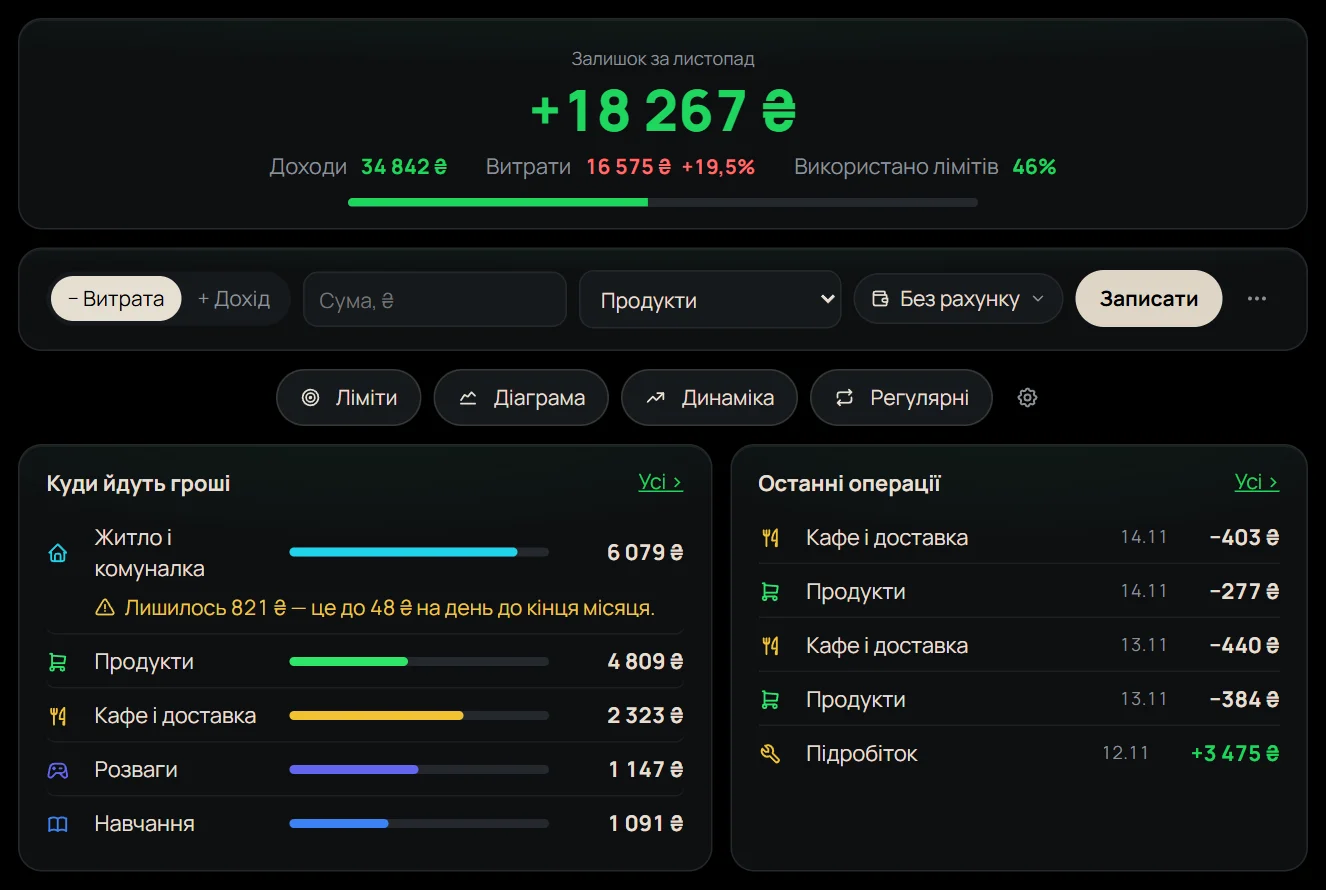
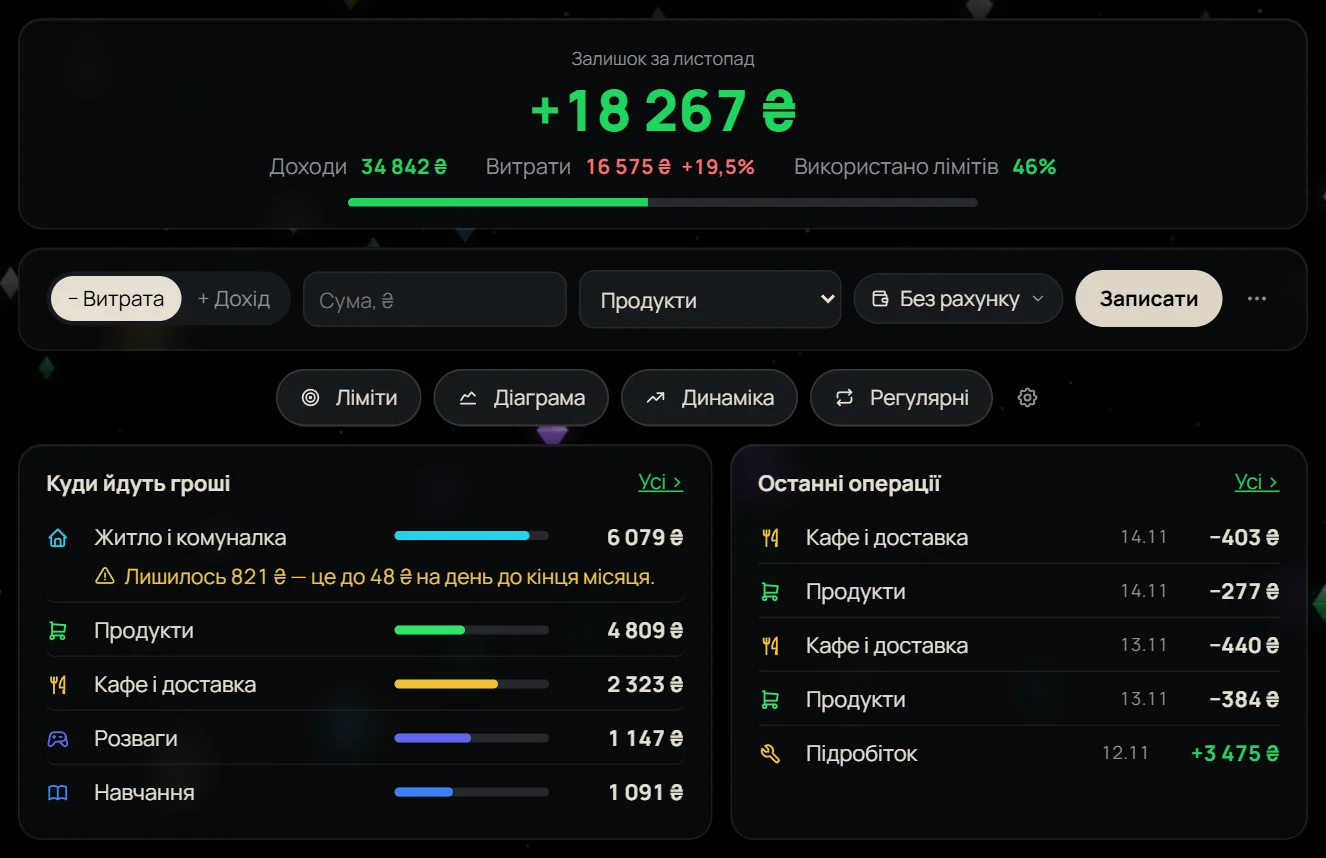
Shots on glass cards over the live Level Up background; LVL 2 adds a Sport week shot; LVL 3 shows Capital instead of trading; hero picture removed; one-line category names in LVL 3

diff --git a/uk/index.html b/uk/index.html
@@ -200,7 +200,6 @@ footer .wrap{display:flex;justify-content:space-between;gap:20px;flex-wrap:wrap}
       <div><a class="btn" href="https://t.me/levelup_otzyvy_bot" target="_blank" rel="noopener"><svg viewBox="0 0 24 24" fill="currentColor"><path d="M21.5 4.2 2.9 11.4c-1.2.5-1.2 1.2 0 1.5l4.7 1.5 1.8 5.6c.2.6.4.8.9.8s.7-.2 1-.5l2.3-2.2 4.8 3.5c.9.5 1.5.2 1.7-.8l3.1-14.6c.3-1.3-.5-1.9-1.7-1.4zM9.9 14.5l-.4 4.3-1.4-4.6L18 8.2z"/></svg><span data-i="abTg">Написати в Telegram</span></a></div>
     </div>
   </div>
-  <img class="shot zoom" data-f="home" src="/img/uk/home.webp" width="1440" height="900" alt="">
 </div>
 
 <!-- п'ять «рівнів» програми: картка-квест + знімок у зеленій рамці, сторони чергуються -->
@@ -219,15 +218,15 @@ footer .wrap{display:flex;justify-content:space-between;gap:20px;flex-wrap:wrap}
     <h2 data-i="l2H">Звички й здоровʼя на одному екрані</h2><p class="sub" data-i="l2P">Сон, вода, кава, настрій і вітаміни — у кілька кліків. Програма сама помічає звʼязки: наприклад, скільки сну забирає зайва чашка кави.</p>
     <ul class="lvb"><li data-i="l2a">Готові звички або свої</li><li data-i="l2b">Нагадування в потрібний час</li><li data-i="l2c">Тренування, кроки й кілометри — у вкладці «Спорт»</li></ul>
   </div>
-  <div class="lvm"><img class="frame zoom" data-f="lvl2" width="1326" height="1184" alt="" loading="lazy"></div>
+  <div class="lvm"><img class="frame zoom" data-f="lvl2" width="1326" height="1184" alt="" loading="lazy"><img class="frame zoom" data-f="lvl2b" width="1326" height="658" alt="" loading="lazy"></div>
 </div></section>
 <section class="lvl" id="lvl3"><div class="wrap lvw">
   <div class="lvt">
     <div class="qc" style="--p:60%"><span class="qn"><b>LVL 3</b> · <span data-i="l3K">ГРОШІ</span></span><span class="qx">XP 3/5</span><i></i></div>
-    <h2 data-i="l3H">Гроші під контролем</h2><p class="sub" data-i="l3P">Доходи й витрати за категоріями, ліміти на місяць, капітал і курси валют. Для трейдерів — журнал угод: просадка, дисципліна і які емоції коштують тобі грошей.</p>
-    <ul class="lvb"><li data-i="l3a">Ліміти з підказкою, скільки можна витратити за день</li><li data-i="l3b">Регулярні платежі й рахунки</li><li data-i="l3c">Журнал угод із розбором місяця</li></ul>
+    <h2 data-i="l3H">Гроші під контролем</h2><p class="sub" data-i="l3P">Доходи й витрати за категоріями, ліміти на місяць і курси валют. А у вкладці «Капітал» видно, скільки в тебе всього грошей і як вони ростуть з місяця в місяць.</p>
+    <ul class="lvb"><li data-i="l3a">Ліміти з підказкою, скільки можна витратити за день</li><li data-i="l3b">Регулярні платежі й рахунки</li><li data-i="l3c">Капітал і його ріст по місяцях</li></ul>
   </div>
-  <div class="lvm"><img class="frame zoom" data-f="lvl3" width="1326" height="920" alt="" loading="lazy"><img class="frame zoom" data-f="lvl3b" width="1326" height="676" alt="" loading="lazy"></div>
+  <div class="lvm"><img class="frame zoom" data-f="lvl3" width="1326" height="889" alt="" loading="lazy"><img class="frame zoom" data-f="lvl3b" width="1326" height="793" alt="" loading="lazy"></div>
 </div></section>
 <section class="lvl wide" id="lvl4"><div class="wrap lvw">
   <div class="lvt">
@@ -235,7 +234,7 @@ footer .wrap{display:flex;justify-content:space-between;gap:20px;flex-wrap:wrap}
     <h2 data-i="l4H">Пиши як другові — програма розкладе сама</h2><p class="sub" data-i="l4P">Одна фраза — і витрата, тренування, заняття та звичка вже на своїх місцях. Працює й без ключа ШІ.</p>
     <ul class="lvb"><li data-i="l4a">Кілька справ в одній фразі</li><li data-i="l4b">Розуміє «вчора» і різні валюти</li><li data-i="l4c">З ключем ШІ — фото чека й підсумки місяця</li></ul>
   </div>
-  <div class="lvm"><img class="frame zoom" data-f="lvl4" width="1686" height="524" alt="" loading="lazy"></div>
+  <div class="lvm"><img class="frame zoom" data-f="lvl4" width="1686" height="527" alt="" loading="lazy"></div>
 </div></section>
 <section class="lvl" id="lvl5"><div class="wrap lvw">
   <div class="lvt">
@@ -343,8 +342,8 @@ uk: {nFeat:'Можливості', nInst:'Як встановити', nPrice:'Ц
  l1K:'ГРА', l1H:'Кожна галочка — це досвід', l1P:'Відмітив звичку — отримав XP і бачиш, як він летить до шкали рівня. Закрив день — салют і хвиля світла на живому фоні.', l1a:'Рівні, звання й 30+ досягнень',
  l1b:'Серії днів без пропусків', l1c:'Нагороди: нові теми й живі фони', l2K:'ЗВИЧКИ Й ЗДОРОВʼЯ', l2H:'Звички й здоровʼя на одному екрані',
  l2P:'Сон, вода, кава, настрій і вітаміни — у кілька кліків. Програма сама помічає звʼязки: наприклад, скільки сну забирає зайва чашка кави.', l2a:'Готові звички або свої', l2b:'Нагадування в потрібний час', l2c:'Тренування, кроки й кілометри — у вкладці «Спорт»',
- l3K:'ГРОШІ', l3H:'Гроші під контролем', l3P:'Доходи й витрати за категоріями, ліміти на місяць, капітал і курси валют. Для трейдерів — журнал угод: просадка, дисципліна і які емоції коштують тобі грошей.', l3a:'Ліміти з підказкою, скільки можна витратити за день',
- l3b:'Регулярні платежі й рахунки', l3c:'Журнал угод із розбором місяця', l4K:'ШІ', l4H:'Пиши як другові — програма розкладе сама',
+ l3K:'ГРОШІ', l3H:'Гроші під контролем', l3P:'Доходи й витрати за категоріями, ліміти на місяць і курси валют. А у вкладці «Капітал» видно, скільки в тебе всього грошей і як вони ростуть з місяця в місяць.', l3a:'Ліміти з підказкою, скільки можна витратити за день',
+ l3b:'Регулярні платежі й рахунки', l3c:'Капітал і його ріст по місяцях', l4K:'ШІ', l4H:'Пиши як другові — програма розкладе сама',
  l4P:'Одна фраза — і витрата, тренування, заняття та звичка вже на своїх місцях. Працює й без ключа ШІ.', l4a:'Кілька справ в одній фразі', l4b:'Розуміє «вчора» і різні валюти', l4c:'З ключем ШІ — фото чека й підсумки місяця',
  l5K:'ПІД СЕБЕ', l5H:'Програма під тебе', l5P:'Теми, живі фони, форма карток і кнопок, шрифти й розмір тексту. Зайві вкладки можна сховати, віджети головної — переставити.', l5a:'Нові теми відкриваються з рівнем',
  l5b:'Скляні картки й живі фони', l5c:'Власні кольори теми', thNight:'Зоряна ніч', thNebula:'Зоряний аметист',
@@ -382,8 +381,8 @@ ru: {nFeat:'Возможности', nInst:'Как установить', nPrice
  l1K:'ИГРА', l1H:'Каждая галочка — это опыт', l1P:'Отметил привычку — получил XP и видишь, как он летит к шкале уровня. Закрыл день — салют и волна света на живом фоне.', l1a:'Уровни, звания и 30+ достижений',
  l1b:'Серии дней без пропусков', l1c:'Награды: новые темы и живые фоны', l2K:'ПРИВЫЧКИ И ЗДОРОВЬЕ', l2H:'Привычки и здоровье на одном экране',
  l2P:'Сон, вода, кофе, настроение и витамины — в пару кликов. Программа сама замечает связи: например, сколько сна отнимает лишняя чашка кофе.', l2a:'Готовые привычки или свои', l2b:'Напоминания в нужное время', l2c:'Тренировки, шаги и километры — во вкладке «Спорт»',
- l3K:'ДЕНЬГИ', l3H:'Деньги под контролем', l3P:'Доходы и расходы по категориям, лимиты на месяц, капитал и курсы валют. Для трейдеров — журнал сделок: просадка, дисциплина и какие эмоции стоят тебе денег.', l3a:'Лимиты с подсказкой, сколько можно тратить в день',
- l3b:'Регулярные платежи и счета', l3c:'Журнал сделок с разбором месяца', l4K:'ИИ', l4H:'Пиши как другу — программа разложит сама',
+ l3K:'ДЕНЬГИ', l3H:'Деньги под контролем', l3P:'Доходы и расходы по категориям, лимиты на месяц и курсы валют. А во вкладке «Капитал» видно, сколько у тебя всего денег и как они растут от месяца к месяцу.', l3a:'Лимиты с подсказкой, сколько можно тратить в день',
+ l3b:'Регулярные платежи и счета', l3c:'Капитал и его рост по месяцам', l4K:'ИИ', l4H:'Пиши как другу — программа разложит сама',
  l4P:'Одна фраза — и трата, тренировка, занятие и привычка уже на своих местах. Работает и без ключа ИИ.', l4a:'Несколько дел в одной фразе', l4b:'Понимает «вчера» и разные валюты', l4c:'С ключом ИИ — фото чека и итоги месяца',
  l5K:'ПОД СЕБЯ', l5H:'Программа под тебя', l5P:'Темы, живые фоны, форма карточек и кнопок, шрифты и размер текста. Лишние вкладки можно спрятать, виджеты главной — переставить.', l5a:'Новые темы открываются с уровнем',
  l5b:'Стеклянные карточки и живые фоны', l5c:'Свои цвета темы', thNight:'Звёздная ночь', thNebula:'Звёздный аметист',
@@ -421,8 +420,8 @@ en: {nFeat:'Features', nInst:'Install', nPrice:'Pricing', nFaq:'FAQ', dlShort:'D
  l1K:'GAME', l1H:'Every check-off is XP', l1P:'Tick a habit — earn XP and watch it fly to your level bar. Close the day — confetti and a wave of light on the live background.', l1a:'Levels, titles and 30+ achievements',
  l1b:'Streaks of days without a miss', l1c:'Rewards: new themes and live backgrounds', l2K:'HABITS & HEALTH', l2H:'Habits and health on one screen',
  l2P:'Sleep, water, coffee, mood and vitamins in a couple of clicks. The app spots patterns itself — like how much sleep an extra cup of coffee costs you.', l2a:'Ready-made habits or your own', l2b:'Reminders at the right time', l2c:'Workouts, steps and kilometres in the Sport tab',
- l3K:'MONEY', l3H:'Money under control', l3P:'Income and spending by category, monthly limits, net worth and exchange rates. For traders — a trade journal: drawdown, discipline and which emotions cost you money.', l3a:'Limits that tell you how much you can spend per day',
- l3b:'Recurring payments and accounts', l3c:'A trade journal with a monthly review', l4K:'AI', l4H:'Type it like to a friend — the app sorts it out',
+ l3K:'MONEY', l3H:'Money under control', l3P:'Income and spending by category, monthly limits and exchange rates. The Capital tab shows how much you have in total and how it grows month by month.', l3a:'Limits that tell you how much you can spend per day',
+ l3b:'Recurring payments and accounts', l3c:'Your capital and its growth by month', l4K:'AI', l4H:'Type it like to a friend — the app sorts it out',
  l4P:'One phrase — and the expense, workout, lesson and habit are all in place. Works even without an AI key.', l4a:'Several things in one phrase', l4b:'Understands “yesterday” and different currencies', l4c:'With an AI key — receipt photos and monthly reviews',
  l5K:'YOUR WAY', l5H:'Make it yours', l5P:'Themes, live backgrounds, card and button shapes, fonts and text size. Hide the tabs you don’t need, rearrange the home widgets.', l5a:'New themes unlock as you level up',
  l5b:'Glass cards and live backgrounds', l5c:'Your own theme colours', thNight:'Starry night', thNebula:'Starry amethyst',

diff --git a/index.html b/index.html
@@ -200,7 +200,6 @@ footer .wrap{display:flex;justify-content:space-between;gap:20px;flex-wrap:wrap}
       <div><a class="btn" href="https://t.me/levelup_otzyvy_bot" target="_blank" rel="noopener"><svg viewBox="0 0 24 24" fill="currentColor"><path d="M21.5 4.2 2.9 11.4c-1.2.5-1.2 1.2 0 1.5l4.7 1.5 1.8 5.6c.2.6.4.8.9.8s.7-.2 1-.5l2.3-2.2 4.8 3.5c.9.5 1.5.2 1.7-.8l3.1-14.6c.3-1.3-.5-1.9-1.7-1.4zM9.9 14.5l-.4 4.3-1.4-4.6L18 8.2z"/></svg><span data-i="abTg">Написать в Telegram</span></a></div>
     </div>
   </div>
-  <img class="shot zoom" data-f="home" src="/img/ru/home.webp" width="1440" height="900" alt="">
 </div>
 
 <!-- п'ять «рівнів» програми: картка-квест + знімок у зеленій рамці, сторони чергуються -->
@@ -219,15 +218,15 @@ footer .wrap{display:flex;justify-content:space-between;gap:20px;flex-wrap:wrap}
     <h2 data-i="l2H">Привычки и здоровье на одном экране</h2><p class="sub" data-i="l2P">Сон, вода, кофе, настроение и витамины — в пару кликов. Программа сама замечает связи: например, сколько сна отнимает лишняя чашка кофе.</p>
     <ul class="lvb"><li data-i="l2a">Готовые привычки или свои</li><li data-i="l2b">Напоминания в нужное время</li><li data-i="l2c">Тренировки, шаги и километры — во вкладке «Спорт»</li></ul>
   </div>
-  <div class="lvm"><img class="frame zoom" data-f="lvl2" width="1326" height="1184" alt="" loading="lazy"></div>
+  <div class="lvm"><img class="frame zoom" data-f="lvl2" width="1326" height="1184" alt="" loading="lazy"><img class="frame zoom" data-f="lvl2b" width="1326" height="658" alt="" loading="lazy"></div>
 </div></section>
 <section class="lvl" id="lvl3"><div class="wrap lvw">
   <div class="lvt">
     <div class="qc" style="--p:60%"><span class="qn"><b>LVL 3</b> · <span data-i="l3K">ДЕНЬГИ</span></span><span class="qx">XP 3/5</span><i></i></div>
-    <h2 data-i="l3H">Деньги под контролем</h2><p class="sub" data-i="l3P">Доходы и расходы по категориям, лимиты на месяц, капитал и курсы валют. Для трейдеров — журнал сделок: просадка, дисциплина и какие эмоции стоят тебе денег.</p>
-    <ul class="lvb"><li data-i="l3a">Лимиты с подсказкой, сколько можно тратить в день</li><li data-i="l3b">Регулярные платежи и счета</li><li data-i="l3c">Журнал сделок с разбором месяца</li></ul>
+    <h2 data-i="l3H">Деньги под контролем</h2><p class="sub" data-i="l3P">Доходы и расходы по категориям, лимиты на месяц и курсы валют. А во вкладке «Капитал» видно, сколько у тебя всего денег и как они растут от месяца к месяцу.</p>
+    <ul class="lvb"><li data-i="l3a">Лимиты с подсказкой, сколько можно тратить в день</li><li data-i="l3b">Регулярные платежи и счета</li><li data-i="l3c">Капитал и его рост по месяцам</li></ul>
   </div>
-  <div class="lvm"><img class="frame zoom" data-f="lvl3" width="1326" height="920" alt="" loading="lazy"><img class="frame zoom" data-f="lvl3b" width="1326" height="676" alt="" loading="lazy"></div>
+  <div class="lvm"><img class="frame zoom" data-f="lvl3" width="1326" height="889" alt="" loading="lazy"><img class="frame zoom" data-f="lvl3b" width="1326" height="793" alt="" loading="lazy"></div>
 </div></section>
 <section class="lvl wide" id="lvl4"><div class="wrap lvw">
   <div class="lvt">
@@ -235,7 +234,7 @@ footer .wrap{display:flex;justify-content:space-between;gap:20px;flex-wrap:wrap}
     <h2 data-i="l4H">Пиши как другу — программа разложит сама</h2><p class="sub" data-i="l4P">Одна фраза — и трата, тренировка, занятие и привычка уже на своих местах. Работает и без ключа ИИ.</p>
     <ul class="lvb"><li data-i="l4a">Несколько дел в одной фразе</li><li data-i="l4b">Понимает «вчера» и разные валюты</li><li data-i="l4c">С ключом ИИ — фото чека и итоги месяца</li></ul>
   </div>
-  <div class="lvm"><img class="frame zoom" data-f="lvl4" width="1686" height="524" alt="" loading="lazy"></div>
+  <div class="lvm"><img class="frame zoom" data-f="lvl4" width="1686" height="527" alt="" loading="lazy"></div>
 </div></section>
 <section class="lvl" id="lvl5"><div class="wrap lvw">
   <div class="lvt">
@@ -343,8 +342,8 @@ uk: {nFeat:'Можливості', nInst:'Як встановити', nPrice:'Ц
  l1K:'ГРА', l1H:'Кожна галочка — це досвід', l1P:'Відмітив звичку — отримав XP і бачиш, як він летить до шкали рівня. Закрив день — салют і хвиля світла на живому фоні.', l1a:'Рівні, звання й 30+ досягнень',
  l1b:'Серії днів без пропусків', l1c:'Нагороди: нові теми й живі фони', l2K:'ЗВИЧКИ Й ЗДОРОВʼЯ', l2H:'Звички й здоровʼя на одному екрані',
  l2P:'Сон, вода, кава, настрій і вітаміни — у кілька кліків. Програма сама помічає звʼязки: наприклад, скільки сну забирає зайва чашка кави.', l2a:'Готові звички або свої', l2b:'Нагадування в потрібний час', l2c:'Тренування, кроки й кілометри — у вкладці «Спорт»',
- l3K:'ГРОШІ', l3H:'Гроші під контролем', l3P:'Доходи й витрати за категоріями, ліміти на місяць, капітал і курси валют. Для трейдерів — журнал угод: просадка, дисципліна і які емоції коштують тобі грошей.', l3a:'Ліміти з підказкою, скільки можна витратити за день',
- l3b:'Регулярні платежі й рахунки', l3c:'Журнал угод із розбором місяця', l4K:'ШІ', l4H:'Пиши як другові — програма розкладе сама',
+ l3K:'ГРОШІ', l3H:'Гроші під контролем', l3P:'Доходи й витрати за категоріями, ліміти на місяць і курси валют. А у вкладці «Капітал» видно, скільки в тебе всього грошей і як вони ростуть з місяця в місяць.', l3a:'Ліміти з підказкою, скільки можна витратити за день',
+ l3b:'Регулярні платежі й рахунки', l3c:'Капітал і його ріст по місяцях', l4K:'ШІ', l4H:'Пиши як другові — програма розкладе сама',
  l4P:'Одна фраза — і витрата, тренування, заняття та звичка вже на своїх місцях. Працює й без ключа ШІ.', l4a:'Кілька справ в одній фразі', l4b:'Розуміє «вчора» і різні валюти', l4c:'З ключем ШІ — фото чека й підсумки місяця',
  l5K:'ПІД СЕБЕ', l5H:'Програма під тебе', l5P:'Теми, живі фони, форма карток і кнопок, шрифти й розмір тексту. Зайві вкладки можна сховати, віджети головної — переставити.', l5a:'Нові теми відкриваються з рівнем',
  l5b:'Скляні картки й живі фони', l5c:'Власні кольори теми', thNight:'Зоряна ніч', thNebula:'Зоряний аметист',
@@ -382,8 +381,8 @@ ru: {nFeat:'Возможности', nInst:'Как установить', nPrice
  l1K:'ИГРА', l1H:'Каждая галочка — это опыт', l1P:'Отметил привычку — получил XP и видишь, как он летит к шкале уровня. Закрыл день — салют и волна света на живом фоне.', l1a:'Уровни, звания и 30+ достижений',
  l1b:'Серии дней без пропусков', l1c:'Награды: новые темы и живые фоны', l2K:'ПРИВЫЧКИ И ЗДОРОВЬЕ', l2H:'Привычки и здоровье на одном экране',
  l2P:'Сон, вода, кофе, настроение и витамины — в пару кликов. Программа сама замечает связи: например, сколько сна отнимает лишняя чашка кофе.', l2a:'Готовые привычки или свои', l2b:'Напоминания в нужное время', l2c:'Тренировки, шаги и километры — во вкладке «Спорт»',
- l3K:'ДЕНЬГИ', l3H:'Деньги под контролем', l3P:'Доходы и расходы по категориям, лимиты на месяц, капитал и курсы валют. Для трейдеров — журнал сделок: просадка, дисциплина и какие эмоции стоят тебе денег.', l3a:'Лимиты с подсказкой, сколько можно тратить в день',
- l3b:'Регулярные платежи и счета', l3c:'Журнал сделок с разбором месяца', l4K:'ИИ', l4H:'Пиши как другу — программа разложит сама',
+ l3K:'ДЕНЬГИ', l3H:'Деньги под контролем', l3P:'Доходы и расходы по категориям, лимиты на месяц и курсы валют. А во вкладке «Капитал» видно, сколько у тебя всего денег и как они растут от месяца к месяцу.', l3a:'Лимиты с подсказкой, сколько можно тратить в день',
+ l3b:'Регулярные платежи и счета', l3c:'Капитал и его рост по месяцам', l4K:'ИИ', l4H:'Пиши как другу — программа разложит сама',
  l4P:'Одна фраза — и трата, тренировка, занятие и привычка уже на своих местах. Работает и без ключа ИИ.', l4a:'Несколько дел в одной фразе', l4b:'Понимает «вчера» и разные валюты', l4c:'С ключом ИИ — фото чека и итоги месяца',
  l5K:'ПОД СЕБЯ', l5H:'Программа под тебя', l5P:'Темы, живые фоны, форма карточек и кнопок, шрифты и размер текста. Лишние вкладки можно спрятать, виджеты главной — переставить.', l5a:'Новые темы открываются с уровнем',
  l5b:'Стеклянные карточки и живые фоны', l5c:'Свои цвета темы', thNight:'Звёздная ночь', thNebula:'Звёздный аметист',
@@ -421,8 +420,8 @@ en: {nFeat:'Features', nInst:'Install', nPrice:'Pricing', nFaq:'FAQ', dlShort:'D
  l1K:'GAME', l1H:'Every check-off is XP', l1P:'Tick a habit — earn XP and watch it fly to your level bar. Close the day — confetti and a wave of light on the live background.', l1a:'Levels, titles and 30+ achievements',
  l1b:'Streaks of days without a miss', l1c:'Rewards: new themes and live backgrounds', l2K:'HABITS & HEALTH', l2H:'Habits and health on one screen',
  l2P:'Sleep, water, coffee, mood and vitamins in a couple of clicks. The app spots patterns itself — like how much sleep an extra cup of coffee costs you.', l2a:'Ready-made habits or your own', l2b:'Reminders at the right time', l2c:'Workouts, steps and kilometres in the Sport tab',
- l3K:'MONEY', l3H:'Money under control', l3P:'Income and spending by category, monthly limits, net worth and exchange rates. For traders — a trade journal: drawdown, discipline and which emotions cost you money.', l3a:'Limits that tell you how much you can spend per day',
- l3b:'Recurring payments and accounts', l3c:'A trade journal with a monthly review', l4K:'AI', l4H:'Type it like to a friend — the app sorts it out',
+ l3K:'MONEY', l3H:'Money under control', l3P:'Income and spending by category, monthly limits and exchange rates. The Capital tab shows how much you have in total and how it grows month by month.', l3a:'Limits that tell you how much you can spend per day',
+ l3b:'Recurring payments and accounts', l3c:'Your capital and its growth by month', l4K:'AI', l4H:'Type it like to a friend — the app sorts it out',
  l4P:'One phrase — and the expense, workout, lesson and habit are all in place. Works even without an AI key.', l4a:'Several things in one phrase', l4b:'Understands “yesterday” and different currencies', l4c:'With an AI key — receipt photos and monthly reviews',
  l5K:'YOUR WAY', l5H:'Make it yours', l5P:'Themes, live backgrounds, card and button shapes, fonts and text size. Hide the tabs you don’t need, rearrange the home widgets.', l5a:'New themes unlock as you level up',
  l5b:'Glass cards and live backgrounds', l5c:'Your own theme colours', thNight:'Starry night', thNebula:'Starry amethyst',

diff --git a/en/index.html b/en/index.html
@@ -200,7 +200,6 @@ footer .wrap{display:flex;justify-content:space-between;gap:20px;flex-wrap:wrap}
       <div><a class="btn" href="https://t.me/levelup_otzyvy_bot" target="_blank" rel="noopener"><svg viewBox="0 0 24 24" fill="currentColor"><path d="M21.5 4.2 2.9 11.4c-1.2.5-1.2 1.2 0 1.5l4.7 1.5 1.8 5.6c.2.6.4.8.9.8s.7-.2 1-.5l2.3-2.2 4.8 3.5c.9.5 1.5.2 1.7-.8l3.1-14.6c.3-1.3-.5-1.9-1.7-1.4zM9.9 14.5l-.4 4.3-1.4-4.6L18 8.2z"/></svg><span data-i="abTg">Message on Telegram</span></a></div>
     </div>
   </div>
-  <img class="shot zoom" data-f="home" src="/img/en/home.webp" width="1440" height="900" alt="">
 </div>
 
 <!-- п'ять «рівнів» програми: картка-квест + знімок у зеленій рамці, сторони чергуються -->
@@ -219,15 +218,15 @@ footer .wrap{display:flex;justify-content:space-between;gap:20px;flex-wrap:wrap}
     <h2 data-i="l2H">Habits and health on one screen</h2><p class="sub" data-i="l2P">Sleep, water, coffee, mood and vitamins in a couple of clicks. The app spots patterns itself — like how much sleep an extra cup of coffee costs you.</p>
     <ul class="lvb"><li data-i="l2a">Ready-made habits or your own</li><li data-i="l2b">Reminders at the right time</li><li data-i="l2c">Workouts, steps and kilometres in the Sport tab</li></ul>
   </div>
-  <div class="lvm"><img class="frame zoom" data-f="lvl2" width="1326" height="1184" alt="" loading="lazy"></div>
+  <div class="lvm"><img class="frame zoom" data-f="lvl2" width="1326" height="1184" alt="" loading="lazy"><img class="frame zoom" data-f="lvl2b" width="1326" height="658" alt="" loading="lazy"></div>
 </div></section>
 <section class="lvl" id="lvl3"><div class="wrap lvw">
   <div class="lvt">
     <div class="qc" style="--p:60%"><span class="qn"><b>LVL 3</b> · <span data-i="l3K">MONEY</span></span><span class="qx">XP 3/5</span><i></i></div>
-    <h2 data-i="l3H">Money under control</h2><p class="sub" data-i="l3P">Income and spending by category, monthly limits, net worth and exchange rates. For traders — a trade journal: drawdown, discipline and which emotions cost you money.</p>
-    <ul class="lvb"><li data-i="l3a">Limits that tell you how much you can spend per day</li><li data-i="l3b">Recurring payments and accounts</li><li data-i="l3c">A trade journal with a monthly review</li></ul>
+    <h2 data-i="l3H">Money under control</h2><p class="sub" data-i="l3P">Income and spending by category, monthly limits and exchange rates. The Capital tab shows how much you have in total and how it grows month by month.</p>
+    <ul class="lvb"><li data-i="l3a">Limits that tell you how much you can spend per day</li><li data-i="l3b">Recurring payments and accounts</li><li data-i="l3c">Your capital and its growth by month</li></ul>
   </div>
-  <div class="lvm"><img class="frame zoom" data-f="lvl3" width="1326" height="920" alt="" loading="lazy"><img class="frame zoom" data-f="lvl3b" width="1326" height="676" alt="" loading="lazy"></div>
+  <div class="lvm"><img class="frame zoom" data-f="lvl3" width="1326" height="889" alt="" loading="lazy"><img class="frame zoom" data-f="lvl3b" width="1326" height="793" alt="" loading="lazy"></div>
 </div></section>
 <section class="lvl wide" id="lvl4"><div class="wrap lvw">
   <div class="lvt">
@@ -235,7 +234,7 @@ footer .wrap{display:flex;justify-content:space-between;gap:20px;flex-wrap:wrap}
     <h2 data-i="l4H">Type it like to a friend — the app sorts it out</h2><p class="sub" data-i="l4P">One phrase — and the expense, workout, lesson and habit are all in place. Works even without an AI key.</p>
     <ul class="lvb"><li data-i="l4a">Several things in one phrase</li><li data-i="l4b">Understands “yesterday” and different currencies</li><li data-i="l4c">With an AI key — receipt photos and monthly reviews</li></ul>
   </div>
-  <div class="lvm"><img class="frame zoom" data-f="lvl4" width="1686" height="524" alt="" loading="lazy"></div>
+  <div class="lvm"><img class="frame zoom" data-f="lvl4" width="1686" height="527" alt="" loading="lazy"></div>
 </div></section>
 <section class="lvl" id="lvl5"><div class="wrap lvw">
   <div class="lvt">
@@ -343,8 +342,8 @@ uk: {nFeat:'Можливості', nInst:'Як встановити', nPrice:'Ц
  l1K:'ГРА', l1H:'Кожна галочка — це досвід', l1P:'Відмітив звичку — отримав XP і бачиш, як він летить до шкали рівня. Закрив день — салют і хвиля світла на живому фоні.', l1a:'Рівні, звання й 30+ досягнень',
  l1b:'Серії днів без пропусків', l1c:'Нагороди: нові теми й живі фони', l2K:'ЗВИЧКИ Й ЗДОРОВʼЯ', l2H:'Звички й здоровʼя на одному екрані',
  l2P:'Сон, вода, кава, настрій і вітаміни — у кілька кліків. Програма сама помічає звʼязки: наприклад, скільки сну забирає зайва чашка кави.', l2a:'Готові звички або свої', l2b:'Нагадування в потрібний час', l2c:'Тренування, кроки й кілометри — у вкладці «Спорт»',
- l3K:'ГРОШІ', l3H:'Гроші під контролем', l3P:'Доходи й витрати за категоріями, ліміти на місяць, капітал і курси валют. Для трейдерів — журнал угод: просадка, дисципліна і які емоції коштують тобі грошей.', l3a:'Ліміти з підказкою, скільки можна витратити за день',
- l3b:'Регулярні платежі й рахунки', l3c:'Журнал угод із розбором місяця', l4K:'ШІ', l4H:'Пиши як другові — програма розкладе сама',
+ l3K:'ГРОШІ', l3H:'Гроші під контролем', l3P:'Доходи й витрати за категоріями, ліміти на місяць і курси валют. А у вкладці «Капітал» видно, скільки в тебе всього грошей і як вони ростуть з місяця в місяць.', l3a:'Ліміти з підказкою, скільки можна витратити за день',
+ l3b:'Регулярні платежі й рахунки', l3c:'Капітал і його ріст по місяцях', l4K:'ШІ', l4H:'Пиши як другові — програма розкладе сама',
  l4P:'Одна фраза — і витрата, тренування, заняття та звичка вже на своїх місцях. Працює й без ключа ШІ.', l4a:'Кілька справ в одній фразі', l4b:'Розуміє «вчора» і різні валюти', l4c:'З ключем ШІ — фото чека й підсумки місяця',
  l5K:'ПІД СЕБЕ', l5H:'Програма під тебе', l5P:'Теми, живі фони, форма карток і кнопок, шрифти й розмір тексту. Зайві вкладки можна сховати, віджети головної — переставити.', l5a:'Нові теми відкриваються з рівнем',
  l5b:'Скляні картки й живі фони', l5c:'Власні кольори теми', thNight:'Зоряна ніч', thNebula:'Зоряний аметист',
@@ -382,8 +381,8 @@ ru: {nFeat:'Возможности', nInst:'Как установить', nPrice
  l1K:'ИГРА', l1H:'Каждая галочка — это опыт', l1P:'Отметил привычку — получил XP и видишь, как он летит к шкале уровня. Закрыл день — салют и волна света на живом фоне.', l1a:'Уровни, звания и 30+ достижений',
  l1b:'Серии дней без пропусков', l1c:'Награды: новые темы и живые фоны', l2K:'ПРИВЫЧКИ И ЗДОРОВЬЕ', l2H:'Привычки и здоровье на одном экране',
  l2P:'Сон, вода, кофе, настроение и витамины — в пару кликов. Программа сама замечает связи: например, сколько сна отнимает лишняя чашка кофе.', l2a:'Готовые привычки или свои', l2b:'Напоминания в нужное время', l2c:'Тренировки, шаги и километры — во вкладке «Спорт»',
- l3K:'ДЕНЬГИ', l3H:'Деньги под контролем', l3P:'Доходы и расходы по категориям, лимиты на месяц, капитал и курсы валют. Для трейдеров — журнал сделок: просадка, дисциплина и какие эмоции стоят тебе денег.', l3a:'Лимиты с подсказкой, сколько можно тратить в день',
- l3b:'Регулярные платежи и счета', l3c:'Журнал сделок с разбором месяца', l4K:'ИИ', l4H:'Пиши как другу — программа разложит сама',
+ l3K:'ДЕНЬГИ', l3H:'Деньги под контролем', l3P:'Доходы и расходы по категориям, лимиты на месяц и курсы валют. А во вкладке «Капитал» видно, сколько у тебя всего денег и как они растут от месяца к месяцу.', l3a:'Лимиты с подсказкой, сколько можно тратить в день',
+ l3b:'Регулярные платежи и счета', l3c:'Капитал и его рост по месяцам', l4K:'ИИ', l4H:'Пиши как другу — программа разложит сама',
  l4P:'Одна фраза — и трата, тренировка, занятие и привычка уже на своих местах. Работает и без ключа ИИ.', l4a:'Несколько дел в одной фразе', l4b:'Понимает «вчера» и разные валюты', l4c:'С ключом ИИ — фото чека и итоги месяца',
  l5K:'ПОД СЕБЯ', l5H:'Программа под тебя', l5P:'Темы, живые фоны, форма карточек и кнопок, шрифты и размер текста. Лишние вкладки можно спрятать, виджеты главной — переставить.', l5a:'Новые темы открываются с уровнем',
  l5b:'Стеклянные карточки и живые фоны', l5c:'Свои цвета темы', thNight:'Звёздная ночь', thNebula:'Звёздный аметист',
@@ -421,8 +420,8 @@ en: {nFeat:'Features', nInst:'Install', nPrice:'Pricing', nFaq:'FAQ', dlShort:'D
  l1K:'GAME', l1H:'Every check-off is XP', l1P:'Tick a habit — earn XP and watch it fly to your level bar. Close the day — confetti and a wave of light on the live background.', l1a:'Levels, titles and 30+ achievements',
  l1b:'Streaks of days without a miss', l1c:'Rewards: new themes and live backgrounds', l2K:'HABITS & HEALTH', l2H:'Habits and health on one screen',
  l2P:'Sleep, water, coffee, mood and vitamins in a couple of clicks. The app spots patterns itself — like how much sleep an extra cup of coffee costs you.', l2a:'Ready-made habits or your own', l2b:'Reminders at the right time', l2c:'Workouts, steps and kilometres in the Sport tab',
- l3K:'MONEY', l3H:'Money under control', l3P:'Income and spending by category, monthly limits, net worth and exchange rates. For traders — a trade journal: drawdown, discipline and which emotions cost you money.', l3a:'Limits that tell you how much you can spend per day',
- l3b:'Recurring payments and accounts', l3c:'A trade journal with a monthly review', l4K:'AI', l4H:'Type it like to a friend — the app sorts it out',
+ l3K:'MONEY', l3H:'Money under control', l3P:'Income and spending by category, monthly limits and exchange rates. The Capital tab shows how much you have in total and how it grows month by month.', l3a:'Limits that tell you how much you can spend per day',
+ l3b:'Recurring payments and accounts', l3c:'Your capital and its growth by month', l4K:'AI', l4H:'Type it like to a friend — the app sorts it out',
  l4P:'One phrase — and the expense, workout, lesson and habit are all in place. Works even without an AI key.', l4a:'Several things in one phrase', l4b:'Understands “yesterday” and different currencies', l4c:'With an AI key — receipt photos and monthly reviews',
  l5K:'YOUR WAY', l5H:'Make it yours', l5P:'Themes, live backgrounds, card and button shapes, fonts and text size. Hide the tabs you don’t need, rearrange the home widgets.', l5a:'New themes unlock as you level up',
  l5b:'Glass cards and live backgrounds', l5c:'Your own theme colours', thNight:'Starry night', thNebula:'Starry amethyst',
